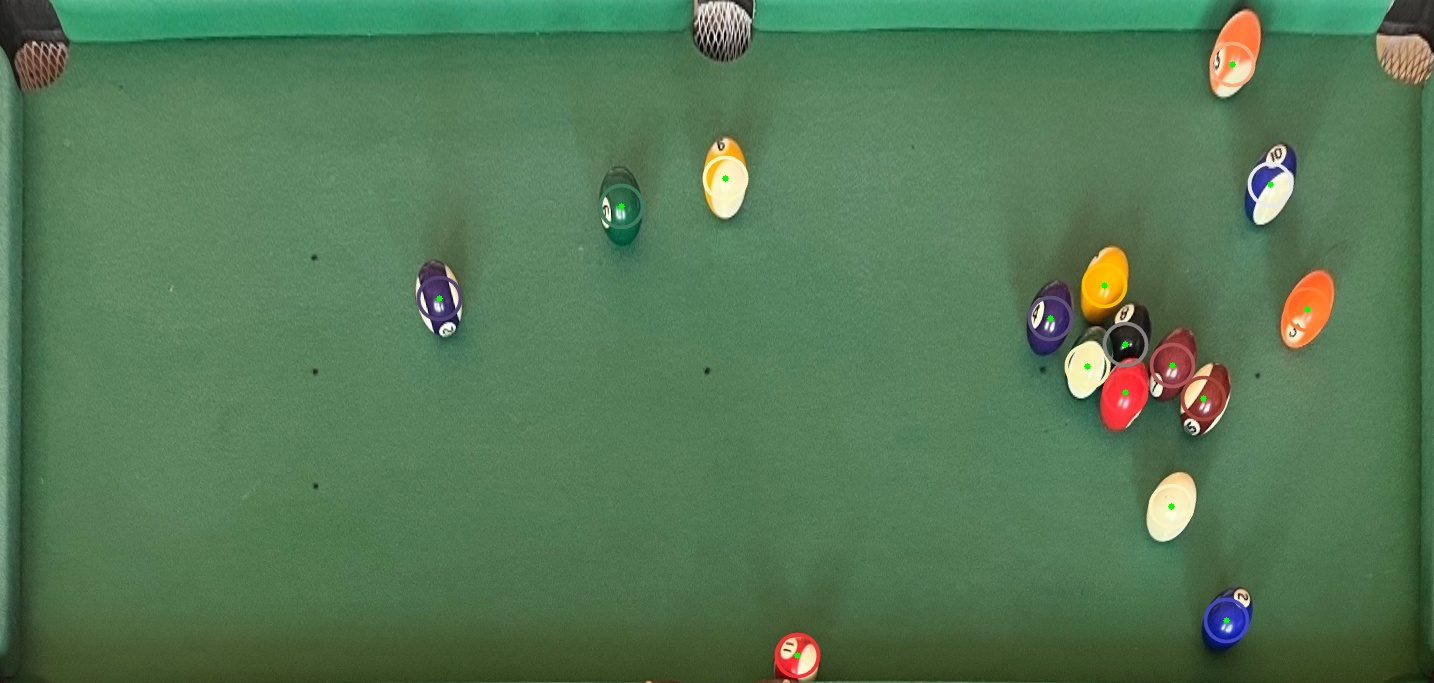
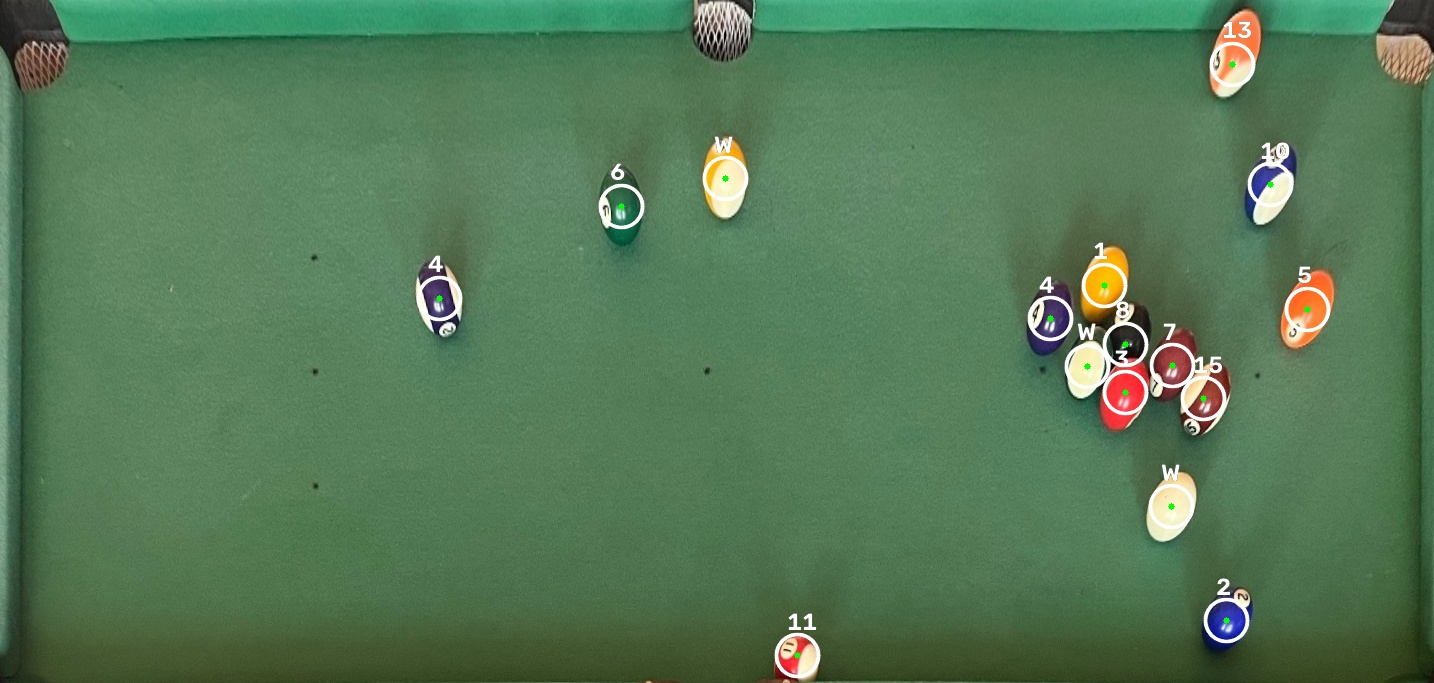
Implemented ball identification

diff --git a/PoolBallProject/PoolBallProject.cpp b/PoolBallProject/PoolBallProject.cpp
@@ -32,7 +32,15 @@ std::map<std::string, std::vector<cv::Point2f>> allGroundTruths = {
         { 23.0, 535.0 },{ 1364.0, 477.0 },{ 1204.0, 444.0 },{ 1406.0, 305.0 },{ 25.0, 131.0 },{ 1294.0, 260.0 },{ 1252.0, 226.0 },{ 72.0, 538.0 },{ 1270.0, 171.0 },{ 351.0, 249.0 },{ 901.0, 169.0 },{ 1201.0, 399.0 },{ 947.0, 629.0 }
     } }
 };
-
+// All balls ground truth map for evaluation purposes (ball number -> (X, Y) pixel coordinates)
+std::map<int, cv::Point2f> allBallsGroundTruth = {
+    { 1,{ 908.0, 253.0 } },{ 2,{ 959.0, 250.0 } },{ 3,{ 1013.0, 255.0 } },
+    { 4,{ 1072.0, 256.0 } },{ 5,{ 1132.0, 254.0 } },{ 6,{ 1184.0, 262.0 } },
+    { 7,{ 1244.0, 256.0 } },{ 8,{ 1307.0, 253.0 } },{ 9,{ 901.0, 329.0 } },
+    { 10,{ 961.0, 330.0 } },{ 11,{ 1013.0, 335.0 } },{ 12,{ 1067.0, 336.0 } },
+    { 13,{ 1130.0, 334.0 } },{ 14,{ 1187.0, 345.0 } },{ 15,{ 1245.0, 342.0 } },
+    { 0,{ 797.0, 293.0 } } // White Ball
+};
 
 
 static cv::Mat tableHomography() {
@@ -45,6 +53,85 @@ cv::Mat warpTable(const cv::Mat& inputImage) {
     cv::Mat warped;
     cv::warpPerspective(inputImage, warped, tableHomography(), cv::Size(1434, 683));
     return warped;
+}
+
+
+// Calculates a 2D HSV Histogram for a specific ball crop
+cv::Mat extractBallHistogram(const cv::Mat& flatTable, cv::Point2f center) {
+    int radius = 20; // 40x40 bounding box
+    cv::Rect roi(center.x - radius, center.y - radius, radius * 2, radius * 2);
+
+    // Safety check to ensure we don't crop outside the image
+    roi &= cv::Rect(0, 0, flatTable.cols, flatTable.rows);
+    if (roi.width <= 0 || roi.height <= 0) return cv::Mat();
+
+    cv::Mat crop = flatTable(roi);
+    cv::Mat hsvCrop;
+    cv::cvtColor(crop, hsvCrop, cv::COLOR_BGR2HSV);
+
+    // Create a circular mask so we IGNORE the green table felt in the corners of the square box
+    cv::Mat mask = cv::Mat::zeros(crop.size(), CV_8UC1);
+    cv::circle(mask, cv::Point(radius, radius), radius - 2, cv::Scalar(255), cv::FILLED);
+
+    // Set up the 2D Histogram (Hue and Saturation)
+    int h_bins = 30, s_bins = 32;
+    int histSize[] = { h_bins, s_bins };
+    float h_ranges[] = { 0, 180 }; // OpenCV Hue goes from 0-180
+    float s_ranges[] = { 0, 256 };
+    const float* ranges[] = { h_ranges, s_ranges };
+    int channels[] = { 0, 1 }; // Use the 0th (Hue) and 1st (Saturation) channels
+
+    cv::Mat hist;
+    cv::calcHist(&hsvCrop, 1, channels, mask, hist, 2, histSize, ranges, true, false);
+    cv::normalize(hist, hist, 0, 1, cv::NORM_MINMAX, -1, cv::Mat());
+
+    return hist;
+}
+
+// Builds the dictionary of reference histograms from AllBalls.jpeg
+std::map<int, cv::Mat> buildReferenceDictionary(const cv::Mat& originalAllBallsImg) {
+    std::cout << "Building Reference Histogram Dictionary from AllBalls.jpeg..." << std::endl;
+    cv::Mat flatAllBalls = warpTable(originalAllBallsImg);
+    std::map<int, cv::Mat> referenceHistograms;
+
+    for (const auto& pair : allBallsGroundTruth) {
+        int ballID = pair.first;
+        cv::Point2f center = pair.second;
+
+        cv::Mat hist = extractBallHistogram(flatAllBalls, center);
+        referenceHistograms[ballID] = hist;
+    }
+    std::cout << "Successfully extracted " << referenceHistograms.size() << " reference histograms!" << std::endl;
+    return referenceHistograms;
+}
+
+int identifyBall(const cv::Mat& flatTable, cv::Point2f center, const std::map<int, cv::Mat>& referenceHistograms) {
+    // 1. Extract the HSV fingerprint of the unknown ball
+    cv::Mat targetHist = extractBallHistogram(flatTable, center);
+
+    // Safety check in case the ball is too close to the absolute edge to crop
+    if (targetHist.empty()) return -1;
+
+    int bestMatchID = -1;
+    double bestDistance = 1.0; // Max possible distance in Bhattacharyya is 1.0
+
+    // 2. Loop through all 16 reference fingerprints
+    for (const auto& pair : referenceHistograms) {
+        int refID = pair.first;
+        const cv::Mat& refHist = pair.second;
+
+        // 3. Mathematical Comparison (Bhattacharyya Distance)
+        // 0.0 means perfect identical match. 1.0 means complete mismatch.
+        double distance = cv::compareHist(targetHist, refHist, cv::HISTCMP_BHATTACHARYYA);
+
+        // Keep track of the lowest distance (highest similarity)
+        if (distance < bestDistance) {
+            bestDistance = distance;
+            bestMatchID = refID;
+        }
+    }
+
+    return bestMatchID;
 }
 
 
@@ -267,10 +354,9 @@ std::vector<cv::Point2f> extractBlobCenters(const cv::Mat& edges, const cv::Mat&
     return unique;
 }
 
-cv::Mat renderResults(const cv::Mat& flatTable, const std::vector<cv::Point2f>& centres) {
+// Added the referenceHistograms map as a parameter
+cv::Mat renderResults(const cv::Mat& flatTable, const std::vector<cv::Point2f>& centres, const std::map<int, cv::Mat>& referenceHistograms) {
     cv::Mat display = flatTable.clone();
-    cv::Mat hsvTable;
-    cv::cvtColor(flatTable, hsvTable, cv::COLOR_BGR2HSV);
 
     // 6 Pockets on a 1434x683 warped table
     std::vector<cv::Point> pockets = {
@@ -290,44 +376,41 @@ cv::Mat renderResults(const cv::Mat& flatTable, const std::vector<cv::Point2f>& 
         }
         if (isPocket) continue;
 
-        // Dynamic Color Sampling
-        cv::Rect roi((int)center.x - 2, (int)center.y - 2, 5, 5);
-        cv::Scalar ringColor(0, 0, 255); // Red fallback
+        // === STAGE 2: IDENTIFY THE BALL ===
+        int ballID = identifyBall(flatTable, center, referenceHistograms);
 
-        if (roi.x >= 0 && roi.y >= 0 && roi.x + roi.width < flatTable.cols && roi.y + roi.height < flatTable.rows) {
-            cv::Mat colorPatch = hsvTable(roi);
-            int val = (int)cv::mean(colorPatch)[2];
-
-            if (val < 50) {
-                ringColor = cv::Scalar(0, 0, 0); // Black for 8-ball
-            }
-            else {
-                ringColor = cv::mean(flatTable(roi)); // Ball's BGR color
-            }
-        }
-
-        // Draw center dot and colored ring
+        // Draw center dot and a clean white ring
         cv::circle(display, center, 3, cv::Scalar(0, 255, 0), -1, 8, 0);
-        cv::circle(display, center, 21, ringColor, 2, cv::LINE_AA);
+        cv::circle(display, center, 21, cv::Scalar(255, 255, 255), 2, cv::LINE_AA);
+
+        // Draw the text label
+        std::string label = (ballID == 0) ? "W" : std::to_string(ballID);
+        if (ballID == -1) label = "?"; // Failsafe
+
+        // Draw a black outline for the text so it's readable over any color
+        cv::putText(display, label, cv::Point(center.x - 10, center.y - 25),
+            cv::FONT_HERSHEY_SIMPLEX, 0.8, cv::Scalar(0, 0, 0), 3, cv::LINE_AA);
+        cv::putText(display, label, cv::Point(center.x - 10, center.y - 25),
+            cv::FONT_HERSHEY_SIMPLEX, 0.8, cv::Scalar(255, 255, 255), 2, cv::LINE_AA);
+
         validCount++;
     }
 
-    std::cout << "Successfully rendered " << validCount << " valid balls!" << std::endl;
     return display;
 }
 
-std::vector<cv::Point2f> detectBalls(const cv::Mat& flatTable, const cv::Mat& original) {    // Step 1: Preprocess and extract edges
-    cv::Mat edges = createEdgeMask(flatTable);
-    cv::imshow("Debug: Canny Edges", edges);
 
-    // Step 2: Clean blobs and extract centers (handling clusters via K-Means)
+std::vector<cv::Point2f> detectBalls(const cv::Mat& flatTable, const cv::Mat& original, const std::map<int, cv::Mat>& refDict) {
+    cv::Mat edges = createEdgeMask(flatTable);
     std::vector<cv::Point2f> centres = extractBlobCenters(edges, original, tableHomography());
 
-    // Step 3: Filter out pockets, sample colors, and draw final visual results
-    cv::Mat finalOutput = renderResults(flatTable, centres);
-    cv::imshow("Detected Balls", finalOutput);
+    // Pass the dictionary here!
+    cv::Mat finalOutput = renderResults(flatTable, centres, refDict);
+    cv::imshow("Detected & Identified Balls", finalOutput);
+
     return centres;
 }
+
 
 struct EvaluationMetrics {
     int TP = 0, FP = 0, FN = 0;
@@ -404,6 +487,13 @@ void MyApplication() {
     int totalGroundTruthCount = 0;
     int totalDetectedCount = 0;
 
+    cv::Mat allBallsImg = cv::imread("AllBalls.jpeg");
+    if (allBallsImg.empty()) {
+        std::cerr << "Error: Cannot load training image AllBalls.jpeg!" << std::endl;
+        return;
+    }
+    std::map<int, cv::Mat> referenceDict = buildReferenceDictionary(allBallsImg);
+
     for (const std::string& filename : tableFilenames) {
         std::cout << "\n----------------------------------------" << std::endl;
         std::cout << "Processing " << filename << "..." << std::endl;
@@ -418,11 +508,11 @@ void MyApplication() {
         cv::Mat flatTable = warpTable(img);
 
         // 2. Run detection pipeline (this shows the windows and returns the coordinate vector)
-        std::vector<cv::Point2f> detectedCenters = detectBalls(flatTable, img);
+        std::vector<cv::Point2f> detectedCenters = detectBalls(flatTable, img, referenceDict);
         totalDetectedCount += detectedCenters.size();
 
         // 3. Save the resulting image automatically to disk
-        cv::Mat resultOutput = renderResults(flatTable, detectedCenters);
+        cv::Mat resultOutput = renderResults(flatTable, detectedCenters, referenceDict);
         std::string outputImageName = "Result_" + filename;
         cv::imwrite(outputImageName, resultOutput);
         std::cout << "Saved visual output as: " << outputImageName << std::endl;
